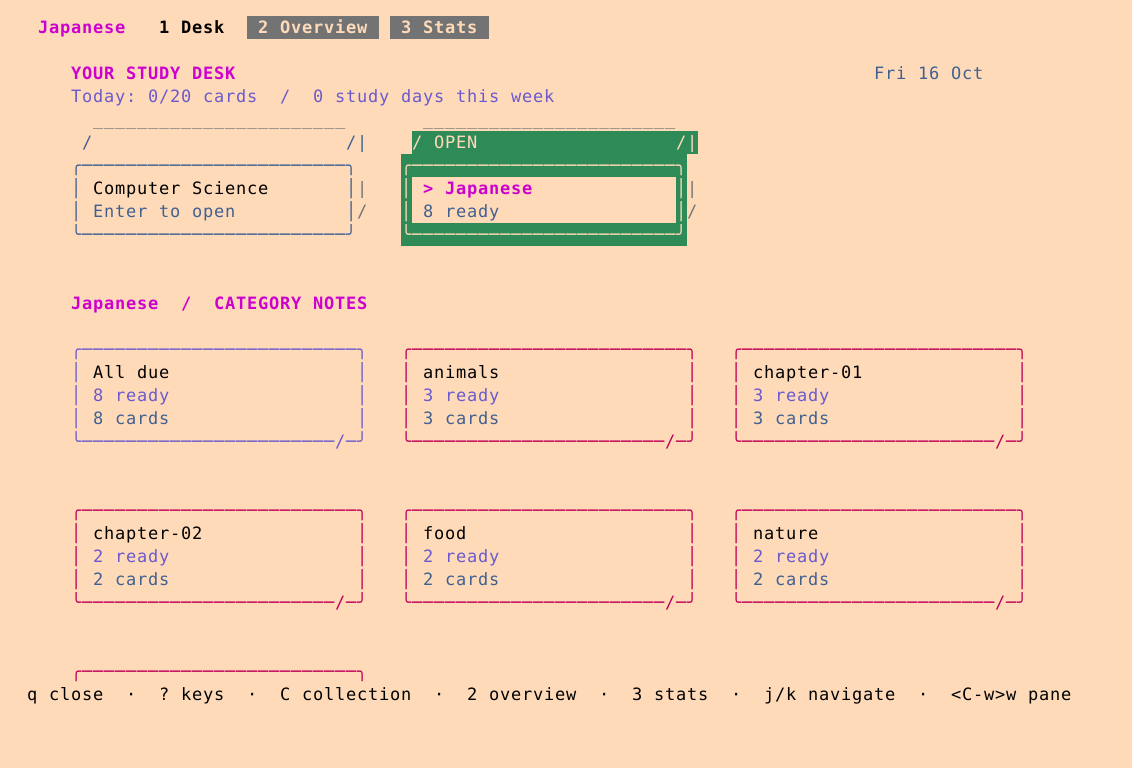
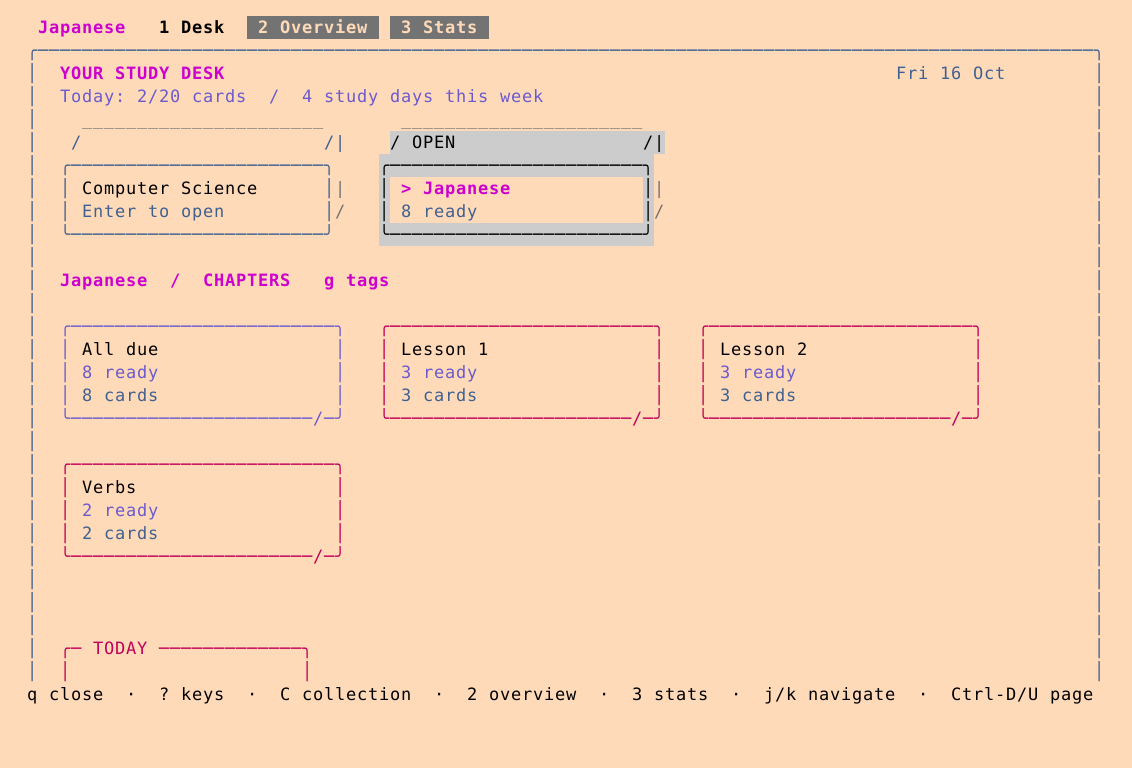
Clarify chapter controls and document the refined workspace

diff --git a/README.md b/README.md
@@ -1,6 +1,6 @@
 # luixbits-neorg-flashcards.nvim
 
-![The study desk with deck boxes and category notes](docs/demo/desk.png)
+![The study desk with deck boxes and chapter notes](docs/demo/desk.png)
 
 Local flashcards for Neovim, stored as plain `.norg` files.
 
@@ -13,8 +13,9 @@ it is not required to use the plugin.
 
 - Keeps cards and review history on your machine. There is no account, server,
   SQLite database, or Anki dependency.
-- Opens a study desk with deck boxes, category notes, and paper card stacks.
-  Overview handles editing; Stats shows a navigable calendar and review history.
+- Opens a study desk with deck boxes, chapter notes, and paper card stacks.
+  Overview manages collections, chapters, and cards; Stats combines a compact
+  calendar with progress, ratings, and forecasts.
 - Adds short card animations, session receipts, and a daily unique-card goal.
   Motion can be disabled and borders can use plain ASCII.
 - Separates subjects such as Japanese and computer science so their cards,
@@ -136,7 +137,7 @@ with `dir = "~/projects/luixbits-neorg-flashcards.nvim"`.
 1. Run `:Flashcards`.
 2. Press `a` to add a card. With the setup above, the composer opens directly.
 3. Fill the required fields and press `Ctrl-S`.
-4. Open the deck box with `Enter`, then choose All due or a category note.
+4. Open the deck box with `Enter`, then choose All due or a chapter note.
    Press `Enter` again to start its due stack. `d` starts all due cards directly.
 5. Reveal with `Space` or `Enter`, then rate with `1`, `2`, or `3`.
 
@@ -144,6 +145,9 @@ The workspace shows useful current shortcuts in its winbar by default. Press
 `?` for the complete list for the page or review state you are in. That help
 window is searchable with Neovim's normal `/`, `n`, and `N` keys. Set
 `ui.show_shortcuts = false` if you prefer less persistent chrome.
+
+App scratch windows suppress visible whitespace and concealment; normal note
+buffers retain their settings.
 
 The plugin does not install global mappings. If you want one, map only the
 workspace entry point:
@@ -253,27 +257,33 @@ closes.
 - `Ctrl-D`, `Ctrl-U`, PageDown, PageUp: move half a page.
 - `gg`, `G`: go to the top or bottom.
 - `d`, `A`: review due cards or all active cards.
-- `a`: add a card from Desk or Overview; a selected category prefills its tag.
+- `a`: add a card in its chapter; on Overview’s collection list, create a collection.
 - `c`: run the collection check; `R`: reload; `q`: close.
 
-Desk shows one box per collection. `Enter` opens a box, then starts a due stack
-from the selected category note. Move by rows with `j/k` and by items with
-`h/l`. `/` finds category notes; `C` reaches every deck when the shelf has more
-boxes than fit. A card with several tags appears in each category, but All due
-contains it once. Empty categories remain visible; Untagged collects cards
-without tags. Caught-up notes never silently start a cram session.
+Desk shows one box per collection, with chapter notes inside it. `Enter` opens
+a box, then studies the selected note's due cards. `g` switches between chapters
+and tags. Move by rows with `j/k` and by items with `h/l`; `/` finds notes. `C`
+reaches every collection when the shelf has more boxes than fit. All due
+contains each card once. Caught-up notes do not start a cram session.
 
-Overview is the working list:
+Overview opens a compact collection → chapter → card browser. `Enter` or `l`
+opens a collection or chapter; `h` goes back. The side pane shows the selected
+item's details and actions. `:Flashcards cards` goes straight to the card list.
 
-- `/`: search fronts, answers, tags, types, sources, dates, and states.
-- `f`: choose a state, Card Clinic, or a card type.
-- `o`: cycle due, front, state, and source sorting.
-- `X`: clear the current search and view. `Esc` clears it when active, then
-  closes the workspace when pressed again.
-- `Enter` or `r`: review the selected active, valid card.
-- `p`: preview; `e`: edit; `x`: suspend or resume; `b`: bury or unbury.
-- `D`: delete the exact selected block after confirmation.
-- `g`: choose a category; `m`: manage decks, categories, and the daily goal.
+| Selection | Create | Rename/edit | Remove | Other |
+| --- | --- | --- | --- | --- |
+| Collection | `a` new collection | `e` display label | `D` detach UI-created collection | `m` settings |
+| Chapter | `n` new chapter; `a` card here | `e` name | `D` move its cards to Unfiled | `r` study due cards |
+| Card | `a` card in this chapter | `e` composer | `D` confirmed source deletion | `M` move to chapter; `p` preview |
+
+- `/` searches fronts, answers, tags, types, sources, dates, and states.
+- `f` selects a state, Card Clinic, or card type; `g` filters by tag.
+- `o` cycles due, front, state, and source sorting.
+- `X` clears search/filter; `Esc` clears an active filter, goes back a level,
+  or closes the collection list.
+- `Enter` or `r` reviews a selected active, valid card.
+- `x` suspends/resumes a card; `b` buries/unburies it.
+- `m` manages the selected collection or chapter, tags, and daily goal.
 
 Invalid cards appear as `[INVALID]`. They remain searchable and editable, but
 cannot be reviewed or scheduled. A closed invalid block can also be deleted;
@@ -290,14 +300,27 @@ time, hints, and saved goals. Historical cards that no longer exist are marked
 as unavailable. Future dates show a schedule snapshot that later ratings can
 change; overdue cards stay in today's backlog.
 
-The detail pane also retains totals, streaks, retention, card states, median
-answer time, heatmap, seven-day forecast, and Needs attention. `Ctrl-W w` focuses
-it for scrolling. Weekly card-days count a card once per day; they are not a
+The main area shows totals, streaks, retention, card states, median answer
+time, heatmap, seven-day forecast, and Needs attention beside the compact
+calendar. `Ctrl-D/U` scrolls analytics; `Ctrl-W w` focuses the day details. Weekly card-days count a card once per day; they are not a
 count of distinct cards across the week. Retention means Hard or Good as a
 percentage of effective ratings. Recorded answer time includes time with a
 card open, and missing durations remain unavailable.
 
-### Decks, categories, and goals
+### Collections, chapters, tags, and goals
+
+A collection is a subject such as Japanese or Computer Science. Chapters such
+as Lesson 1, Lesson 2, or Verbs organize cards inside it. A card belongs to at
+most one chapter and can have several tags, such as `travel` or `household`.
+Neither chapter names nor tags depend on source filenames.
+
+Existing cards start in Unfiled. Create a chapter with `n`, then use `M` on a
+card to move it. For lesson tags already in your cards, `m` → Create chapter
+from tag creates a chapter and moves matching cards after confirmation. Tags
+stay on the cards. Removing a chapter returns its cards to Unfiled and keeps
+their IDs, scheduling, and history. Adding from a chapter assigns the new card
+to it; the card still goes into the collection's configured default file.
+
 
 Press `m` in Overview to change the deck's display label or daily goal; create,
 label, color, or order category notes; rename or merge tags; or remove a tag
@@ -319,7 +342,7 @@ change historical stamps. A goal does not limit queues or change scheduling.
 Cards awaiting durable history delivery count provisionally and are deduplicated
 on replay. Reviews in unsaved source buffers enter daily history when saved.
 
-Presentation and goal snapshots live in each root's
+Chapter names and membership, presentation, and goal snapshots live in each root's
 `.flashcards-workspace.json`. UI-created deck definitions live in
 `stdpath("data")/neorg-flashcards/decks.json`; set `deck_registry` to another
 path, or `false` for a wholly declarative setup. Include these files in your

diff --git a/docs/demo/README.md b/docs/demo/README.md
@@ -1,52 +1,42 @@
 # Study desk visual checks
 
-These images show the actual Neovim UI with synthetic Japanese cards. The
-first six were captured from Neovim's external line-grid redraw events and
-rasterized with a monospace font. They contain no personal collection data or invented
-terminal output.
+These images show actual Neovim redraws with synthetic Japanese cards. They
+were captured on 2026-10-16 through the full NVF configuration, with the local
+plugin loaded before its installed version. The editor had visible whitespace
+and concealment enabled. App windows suppress those settings locally; source
+windows keep them. Images are rasterized from the external line grid.
 
-Run the same disposable fixture from the repository root:
-
-```sh
-nvim -u NONE -i NONE -n -c 'colorscheme habamax' \
-  -c 'luafile scripts/study-desk-demo.lua'
-```
-
-The fixture writes eight cards into a temporary directory, disables the deck
-registry, and opens Desk. Set `FLASHCARDS_DEMO_MOTION=1` to exercise animations
-or `FLASHCARDS_DEMO_ASCII=1` for plain borders. Use `:colorscheme peachpuff` for
-the light-theme variant. It does not change your normal setup or collections.
+Run `nvim -u NONE -c 'luafile scripts/study-desk-demo.lua'` from the checkout
+for an isolated fixture. It creates temporary collections, disables the deck
+registry, and opens Desk. It replaces the running editor's plugin setup, so
+use a separate Neovim process. `FLASHCARDS_DEMO_MOTION=1` enables animation;
+`FLASHCARDS_DEMO_ASCII=1` uses plain borders and chart glyphs. For the synthetic
+activity fixture shown here, set `FLASHCARDS_DEMO_HISTORY=1`. Its seeded events
+are demonstration data, not an actual person's study record.
 
 | View | Terminal | Theme | Image |
 | --- | --- | --- | --- |
-| Desk | 140 × 45 | habamax | [Desk](desk.png) |
-| Desk | 100 × 32 | peachpuff | [Light desk](desk-light.png) |
-| ASCII Desk | 80 × 24 | default | [ASCII desk](desk-ascii.png) |
-| Revealed card | 80 × 24 | habamax | [Study](study.png) |
-| Calendar | 80 × 24 | habamax | [Calendar](calendar.png) |
-| Overview | 100 × 32 | peachpuff | [Manager](overview.png) |
-| Live compact goal | 108 × 27 | habamax | [Completed goal](live-desk.png) |
-| Live calendar details | 108 × 27 | habamax | [Calendar details](live-calendar.png) |
+| Framed Desk | 180 × 42 | Kanagawa | [Desk](desk.png) |
+| Light Desk | 100 × 32 | peachpuff | [Light desk](desk-light.png) |
+| ASCII Desk | 80 × 24 | peachpuff | [ASCII desk](desk-ascii.png) |
+| Revealed card and session stacks | 150 × 42 | Kanagawa | [Study](study.png) |
+| Calendar and main analytics | 180 × 42 | Kanagawa | [Stats](calendar.png) |
+| Compact ASCII calendar | 80 × 24 | peachpuff | [Compact Stats](calendar-compact.png) |
+| Chapter management | 150 × 38 | Kanagawa | [Chapters](chapters.png) |
+| Cards within a chapter | 150 × 38 | Kanagawa | [Cards](overview.png) |
 
-Image review on 2026-10-16 caught and corrected repeated shortcut strips,
-paper shadows crossing card content, hidden page headings after tab changes,
-and rating labels losing color when wrapped. A 60 × 20 fallback was also
-reviewed; its rating choices use separate lines. Longer cards and detail panes
-scroll. Calendar explanations wrap in the sidebar; this was checked again in
-a real 108 × 27 terminal recording. On small desks, j/k and PageDown bring further category rows into view.
+Review caught and corrected inherited whitespace dots, concealed border
+characters, an oversized calendar, a clipped calendar in short windows, and
+review focus returning to Desk during a resize. The session test checks unseen,
+retry, finished, and rating totals across an actual resize. Chapter tests use
+the real composer and keyboard actions to create, rename, move, and remove.
 
-Interaction tests exercise live animation cancellation, Again, undo, completion,
-calendar drilldown, deck creation/reload, stale prompts, and repeated resizes.
-The existing background-tab close regression exposed a Neovim 0.11 crash with
-the new floating strip; closing the float before its host fixes it on the
-tested 0.10.4, 0.11.5, and 0.12.4 builds.
+Small desks scroll to later notes and the progress panel. The header retains
+today's progress. A 60 × 20 interaction regression checks paging past the last
+note; long cards and detail panes also scroll. Light and dark themes, ASCII,
+Japanese text, animation cancellation, undo, and stale prompts are covered.
 
-The two live images come from a 2880 × 1800 terminal recording. Its six
-demonstration cards were created through the forms. Four Japanese cards
-produced five effective answers, one retry, and a daily goal of four. The
-receipt, calendar and saved history agree. These are demonstration reviews,
-not a fabricated long-term study record.
-
-The compact layout keeps its reached-goal stamp in the header. PageDown
-continues past the final category into the progress panel; its final row stays
-above the shortcut strip. A 60 × 20 interaction regression checks this.
+The retained `live-desk.png`, `live-calendar.png`, and earlier review media are
+historical captures from the previous candidate. They are not evidence of the
+current chapter hierarchy or Stats layout. Updated video takes belong in the
+private Remotion capture inventory.

diff --git a/docs/adr/0015-independent-chapters-and-window-isolation.md b/docs/adr/0015-independent-chapters-and-window-isolation.md
@@ -1,0 +1,40 @@
+# ADR 0015: Separate chapters from tags and isolate app windows
+
+Status: Accepted, 2026-10-16
+
+## Context
+
+Collections are subjects; chapters group cards inside a collection. Tags such
+as travel and household categorize cards across those chapters. Treating tags
+or filenames as chapters obscured that distinction. The first Desk preview also
+inherited visible whitespace and Neorg concealment from a real configuration.
+
+## Decision
+
+Extend the version-1 workspace sidecar with optional `chapters` (stable IDs and
+display labels) and `chapter_cards` (card ID to chapter ID). Validate membership
+before writing. Missing fields mean no chapters. Do not add a card field or
+rewrite source syntax. Unassigned cards remain accessible in Unfiled.
+
+Overview navigates collections, chapters, and cards. Rename changes a label;
+move changes membership; removing a chapter clears membership and keeps cards.
+Creating a chapter from a tag is explicit and confirmed, and preserves tags.
+Cards added in a chapter still use the collection's configured default file.
+
+This supersedes ADR 0014's flat Overview and tag-only Desk. Its persistence,
+tag-editing, registry ownership, and daily-goal decisions remain in force.
+Desk switches between chapter notes and tag notes. Stats puts analytics in the
+main pane with a bounded calendar and selected-day details alongside it.
+
+Use `neorg_flashcards` for app scratch buffers, with window-local `nolist`,
+zero concealment, no spell checking, and no folding. Leave source-note settings
+alone. Review resizing preserves the active review window's keyboard focus.
+
+## Consequences
+
+Chapter organization requires the workspace sidecar in backups. It survives
+source file renames and card edits because membership uses stable IDs. Removing
+the sidecar loses organization, labels, and saved goals, but preserves source
+cards and review history. Existing cards are never assigned by guessing from
+filenames or tag spelling. Renaming an underlying collection ID remains a
+configuration change; a UI rename changes only its display label.

diff --git a/docs/UPGRADING.md b/docs/UPGRADING.md
@@ -7,9 +7,9 @@ history remain compatible. No card migration is required for this UI update.
 
 - The pages are now `1 Desk`, `2 Overview`, and `3 Stats`. Bare `:Flashcards`
   opens Desk; `:Flashcards overview` opens the manager. `:Flashcards cards` and
-  `cards()` remain manager aliases. Use `desk()` for the new study surface.
-- Enter opens a deck box, then studies the due cards on the selected category
-  note. `review tag` retains its explicit all-active matching-card behavior.
+  `cards()` open its card-list level. Use `desk()` for the new study surface.
+- Enter opens a deck box, then studies the due cards on the selected chapter
+  note. `g` switches to tag notes. `review tag` retains its explicit all-active matching-card behavior.
   `A` remains an intentional cram action.
 - Rating keys require explicit reveal with Enter/Space. They no longer reveal
   a hidden answer. This prevents key repeat from rating the next question.
@@ -22,6 +22,18 @@ history remain compatible. No card migration is required for this UI update.
 - `ui.motion = false` disables card animation. `ui.ascii = true` uses plain
   ASCII borders. `ui.desk_highlights` accepts theme links or exact attributes;
   the defaults adapt to light and dark colorschemes.
+
+Chapters are separate from filenames and tags. Existing cards appear in
+Unfiled; create chapters with `n` in Overview and move cards with `M`. For
+existing lesson tags, `m` → Create chapter from tag moves their cards after
+confirmation and keeps those tags. Removing a chapter returns cards to Unfiled.
+Optional `chapters` and `chapter_cards` fields extend the existing workspace
+sidecar; card syntax and history versions stay unchanged. Back up the sidecar
+to preserve chapter organization.
+
+Scratch windows now use `neorg_flashcards`, not `norg`, so source-file hooks,
+visible spaces, and concealment cannot damage the app layout. Normal note
+buffers keep the user's settings.
 
 Category rename/merge/removal writes tag fields and creates
 `*.flashcards-tags-backup` snapshots. Removing a category keeps its cards.

diff --git a/docs/workspace-refinement.md b/docs/workspace-refinement.md
@@ -5,8 +5,8 @@ Follow-up to the 2026-10-16 review in the user's actual NVF setup.
 - [x] Isolate app buffers from whitespace markers, concealment and source-file hooks.
 - [x] Frame the desk, use compact spacing, and remove filler text.
 - [x] Show useful pending/reviewed stacks with session counts and rating totals.
-- [ ] Make Overview a collection → chapter → card manager with contextual actions.
-- [ ] Rebalance Stats around useful summaries, a compact calendar and day details.
+- [x] Make Overview a collection → chapter → card manager with contextual actions.
+- [x] Rebalance Stats around useful summaries, a compact calendar and day details.
 - [ ] Verify the full user configuration, themes, resizes, keyboard navigation and persistence.
 - [ ] Review images, run release checks and make scoped commits throughout.
 - [ ] Update documentation, video facts and the temporary Neovim build.
@@ -19,3 +19,7 @@ Collections contain chapters; chapters contain cards. Tags independently
 categorize cards across chapters. Chapter membership belongs in collection
 metadata, keyed by stable card IDs, so existing note syntax stays compatible.
 Unassigned cards remain in Unfiled. Preserve IDs, history and config ownership.
+
+The short-window calendar now fits above the day details. A resize regression
+also caught review focus returning to the desk; the active review keeps focus
+while its stack counters and dimensions update.

diff --git a/CHANGELOG.md b/CHANGELOG.md
@@ -4,8 +4,19 @@ All notable changes to this project will be documented here.
 
 ## 0.3.0 - Unreleased
 
+- Added a collection → chapter → card manager with contextual create, rename,
+  move, and confirmed removal. Chapters are independent of filenames and tags;
+  existing cards appear in Unfiled. Chapter-from-tag preserves the source tags.
+- Framed and tightened the Desk, removed decorative filler, and added useful
+  pending/reviewed stack counts: unseen, retries, finished, set aside, and ratings.
+- Rebalanced Stats around a bounded calendar, visible progress, ratings, recall
+  trends, forecast, and a separate selected-day pane. Short windows retain the
+  selected date and resizing keeps keyboard focus in active reviews.
+- Isolated app buffers from inherited whitespace markers and Neorg concealment
+  using their own filetype and local window options. Note editing is unchanged.
+
 - Reworked the workspace into Desk, Overview, and Stats. Desk shows collection
-  boxes and category notes, opens due-only stacks, and keeps review on the same
+  boxes and chapter/tag notes, opens due-only stacks, and keeps review on the same
   canvas with pending/reviewed piles and a completion receipt. `cards` remains
   an alias for the manager in Overview.
 - Added theme-linked desk highlights, plain ASCII borders, responsive layouts,

diff --git a/docs/adr/README.md b/docs/adr/README.md
@@ -20,3 +20,4 @@ record is a design target and may change before implementation.
 | [0012](0012-capability-gated-ephemeral-typed-answers.md) | Accepted | Gate typed answers by schema and keep attempts in memory |
 | [0013](0013-card-clinic-is-an-evidence-filter.md) | Accepted | Keep Card Clinic inside Cards and derive it from review evidence |
 | [0014](0014-study-desk-and-workspace-metadata.md) | Accepted | Integrate study on Desk; keep presentation and UI-created deck metadata separate from cards |
+| [0015](0015-independent-chapters-and-window-isolation.md) | Accepted | Separate chapters from tags; isolate app windows from note editing options |
